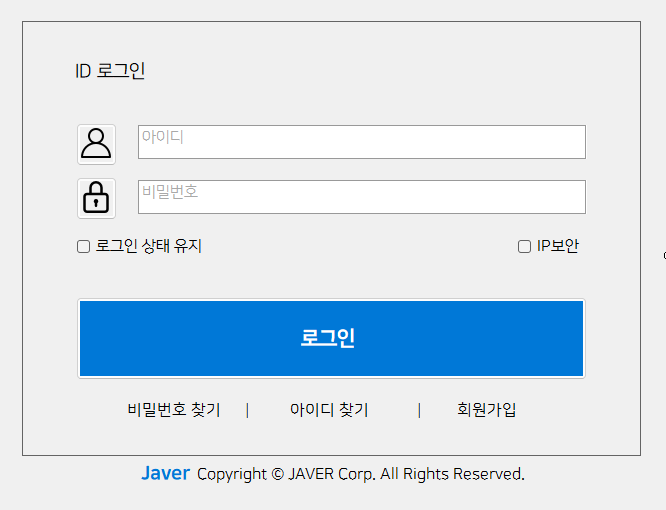
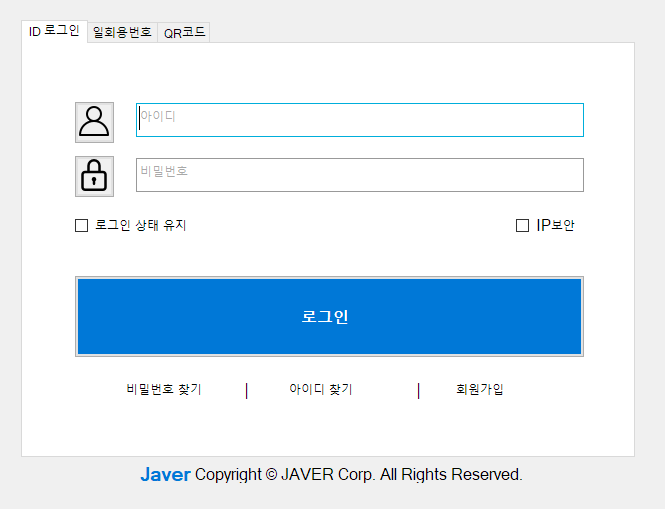
.

diff --git a/MiniProject_3_최종/MiniProjectFinal/FrmMain.cs b/MiniProject_3_최종/MiniProjectFinal/FrmMain.cs
@@ -7,8 +7,7 @@ using System.Linq;
 using System.Text;
 using System.Threading.Tasks;
 using System.Windows.Forms;
-using MetroFramework;
-using MetroFramework.Forms;
+
 
 
 namespace MiniProjectFinal
